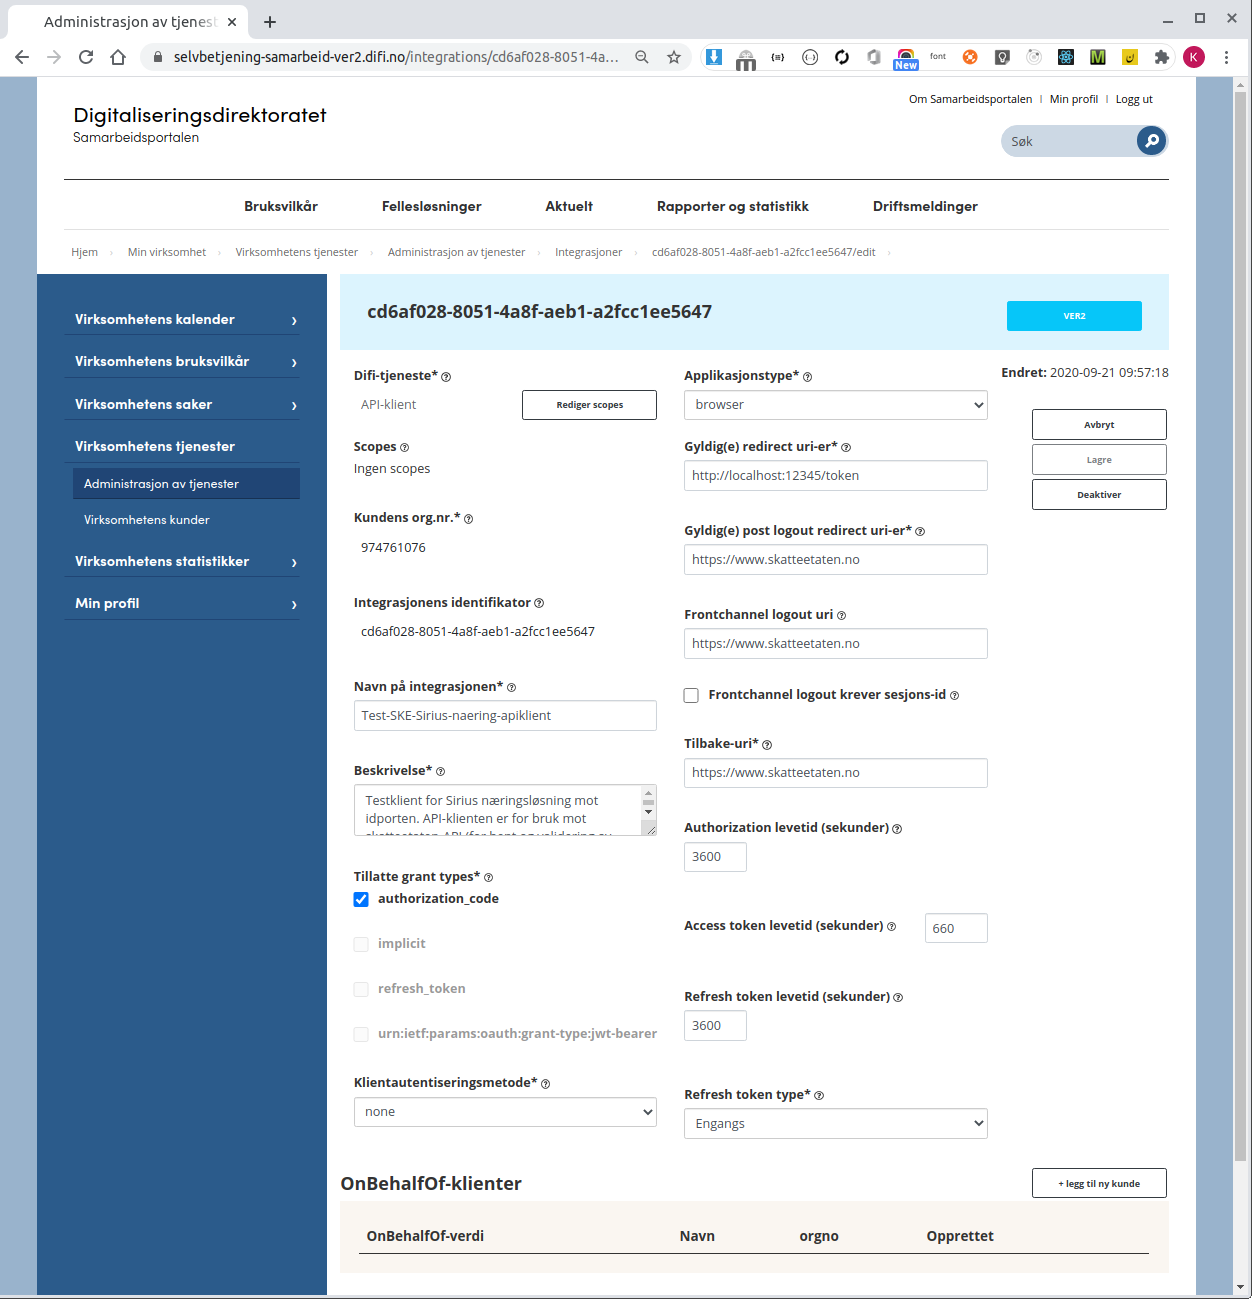
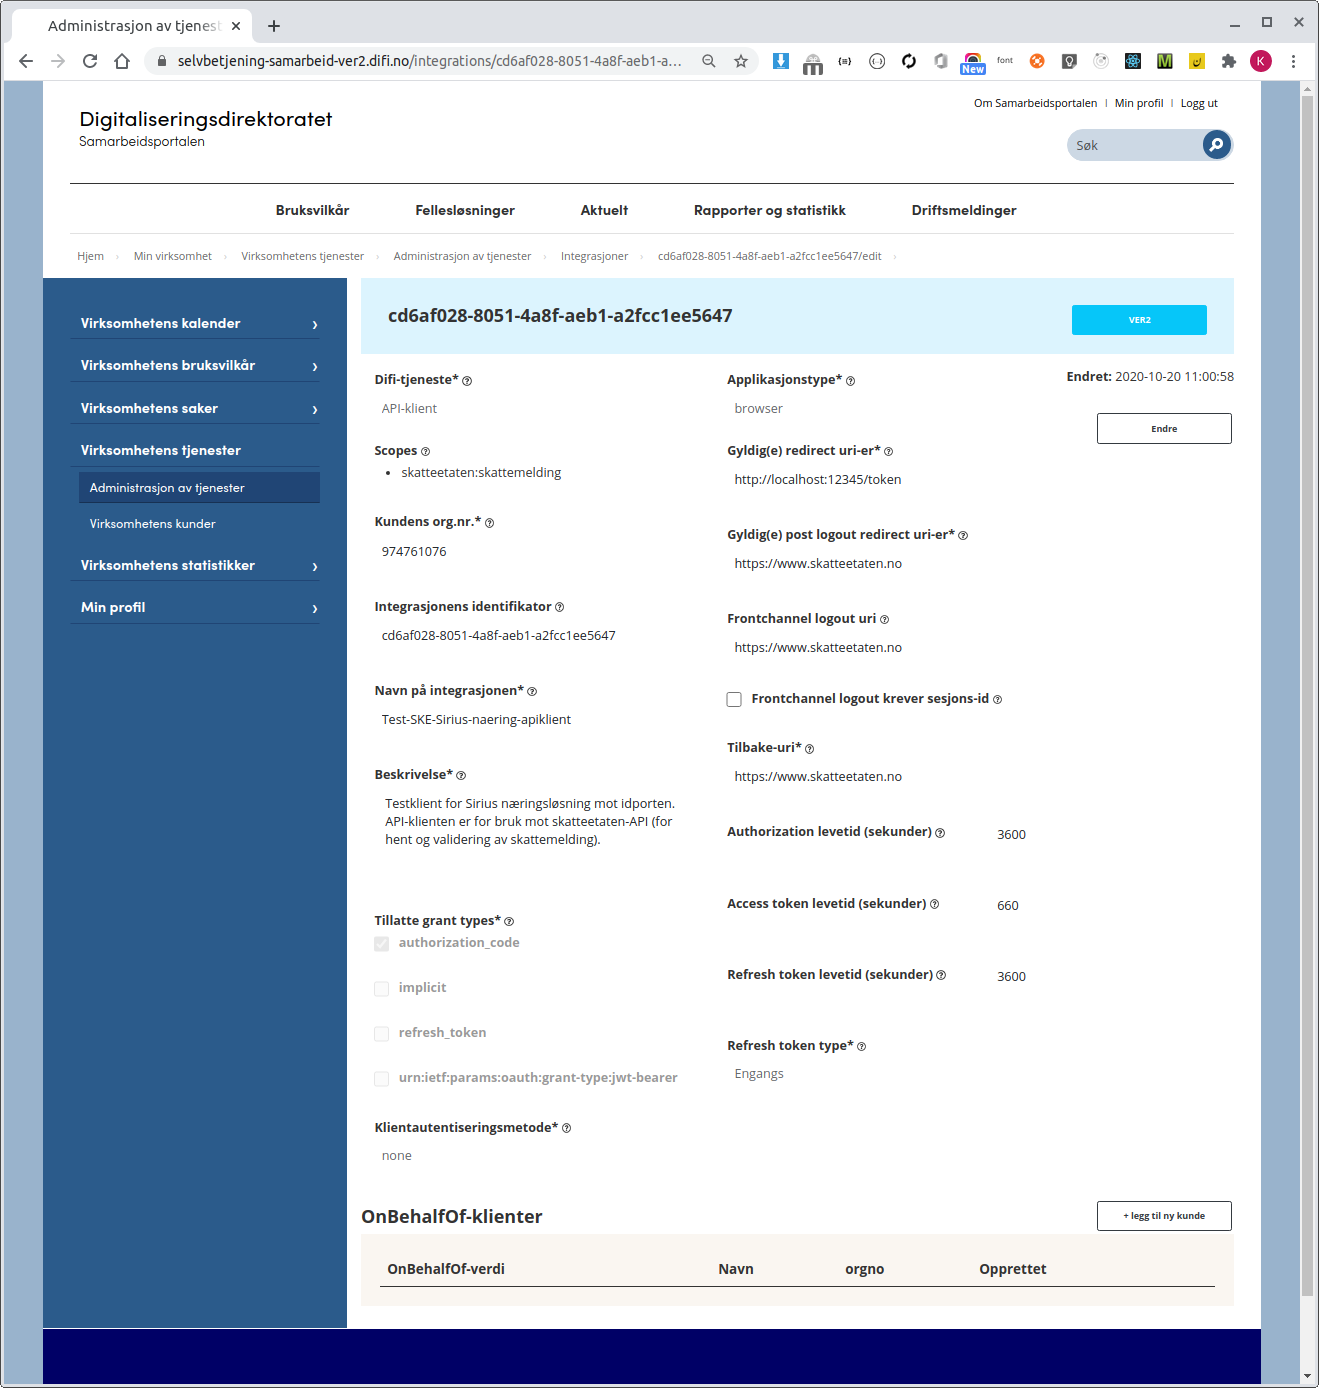
oppdatert beskrivelse av ID-porten

diff --git a/docs/documentation/api/index.md b/docs/documentation/api/index.md
@@ -53,7 +53,8 @@ Under følger en beskrivelse av hvordan en integrasjon kan opprettes hos DigDir 
 - Klikk på integrasjoner under Ver2, klikk så på knappen "ny Integrasjon".
 - Det er denne integrasjonen som deres applikasjon vil snakke med seinere når deres sluttbruker skal autentisere seg mot ID-porten.
   - Verdien i feltet "Integrasjonens identifikator" (kalt klient-ID over) er en GUID som tildeles av Digdir/Difi og som SBS må sende med i kallet til ID-porten.
-- Velge så et scope som angir hvilken offentlig API-tjeneste registreringen gjelder for:
+- Velg _"API-klient"_ under "Difi-tjeneste".
+- Velg så et scope som angir hvilken offentlig API-tjeneste registreringen gjelder for:
   - Klikk på knappen "Rediger Scopes" og velg _"skatteetaten:skattemelding"_ fra lista over scopes.
   - PS: hvis dere ikke finner scopet _"skatteetaten:skattemelding"_ i lista må dere ta kontakt med skatteetaten slik at vi kan gi dere tilgang til scopet (i mellom tiden kan dere forsatt bruke denne integrasjonen da skatteetaen pt. ikke sjekker scope ved validering av access tokenet. Men denne sjekken er noe vi på et seinere tidspunkt kommer til å slå på).
 - Skriv inn et redirect uri-er (komma seperert og uten mellomrom). Dette er Uri-(er) som klienten får lov å gå til etter innlogging (ref. pilnummer 6 i figuren over)
